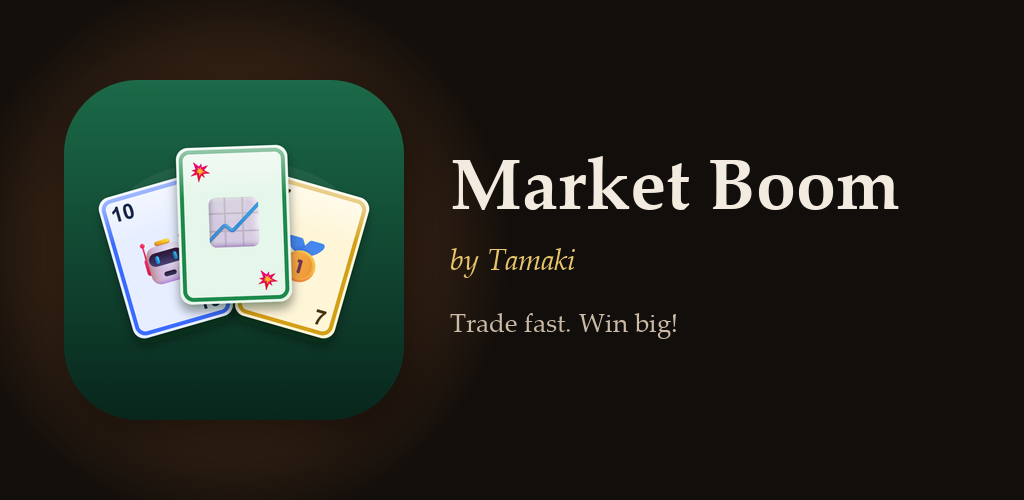
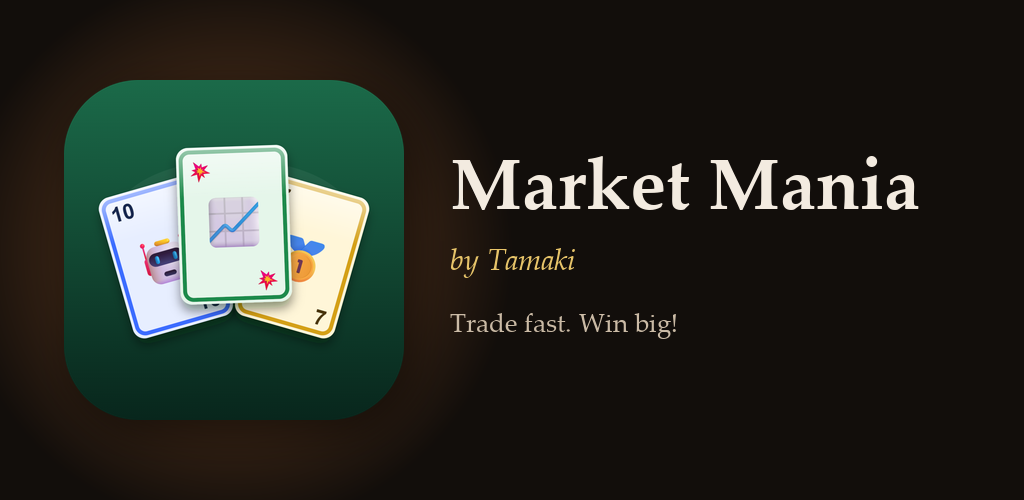
Market Mania name change

Changed region(s): [[0.6875, 0.3, 0.9062, 0.42]]

diff --git a/coming-soon/index.html b/coming-soon/index.html
@@ -4,7 +4,7 @@
     <meta charset="utf-8" />
     <meta name="viewport" content="width=device-width, initial-scale=1" />
     <title>Coming Soon — Tamaki Technologies</title>
-    <meta name="description" content="Backgammon and Market Boom are coming soon from Tamaki Technologies." />
+    <meta name="description" content="Backgammon and Market Mania are coming soon from Tamaki Technologies." />
     <link rel="icon" href="/logo/tamaki-t.png" type="image/png" />
     <link rel="stylesheet" href="/styles.css" />
   </head>
@@ -43,12 +43,12 @@
           </div>
         </article>
         <article class="game">
-          <img class="banner" src="/graphics/marketboom.png?v=3" alt="Market Boom by Tamaki. Trade fast. Win big!" />
+          <img class="banner" src="/graphics/marketboom.png?v=4" alt="Market Mania by Tamaki. Trade fast. Win big!" />
           <div class="game-body">
             <div class="game-copy">
               <img src="/icons/marketboom.svg" alt="" />
               <div>
-                <h2>Market Boom</h2>
+                <h2>Market Mania</h2>
                 <p>Trade fast. Win big!</p>
               </div>
             </div>

diff --git a/index.html b/index.html
@@ -93,7 +93,7 @@
           <li>
             <a href="/coming-soon/">
               <img src="/icons/marketboom.svg" alt="" />
-              <span><strong>Market Boom</strong>Trade fast. Win big!</span>
+              <span><strong>Market Mania</strong>Trade fast. Win big!</span>
             </a>
           </li>
         </ul>
